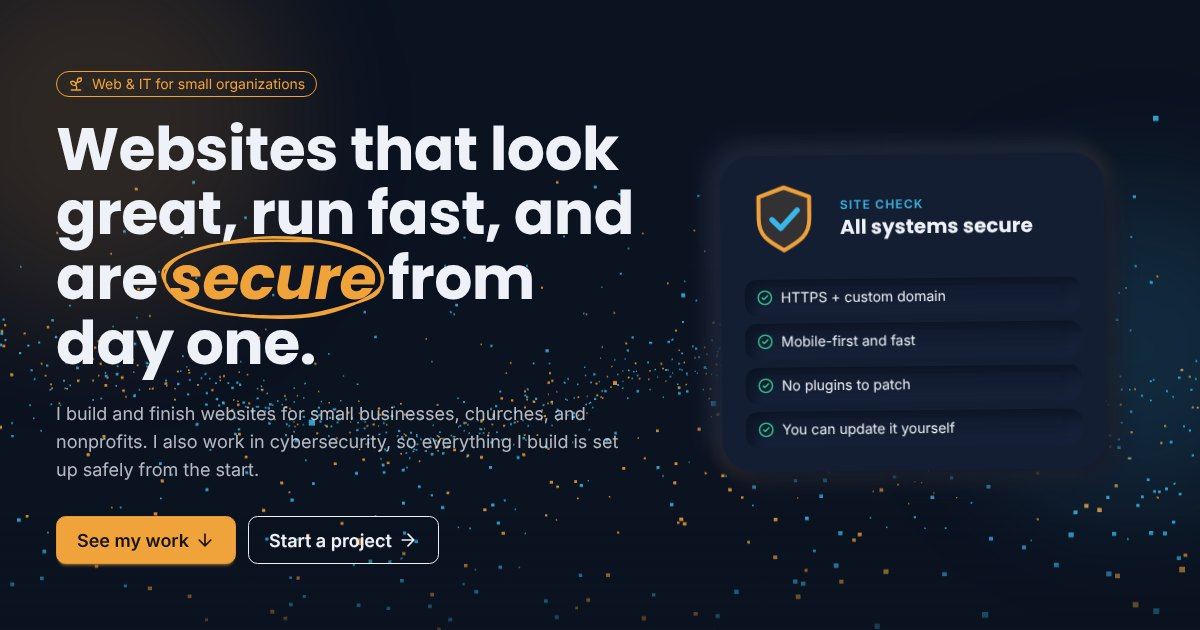
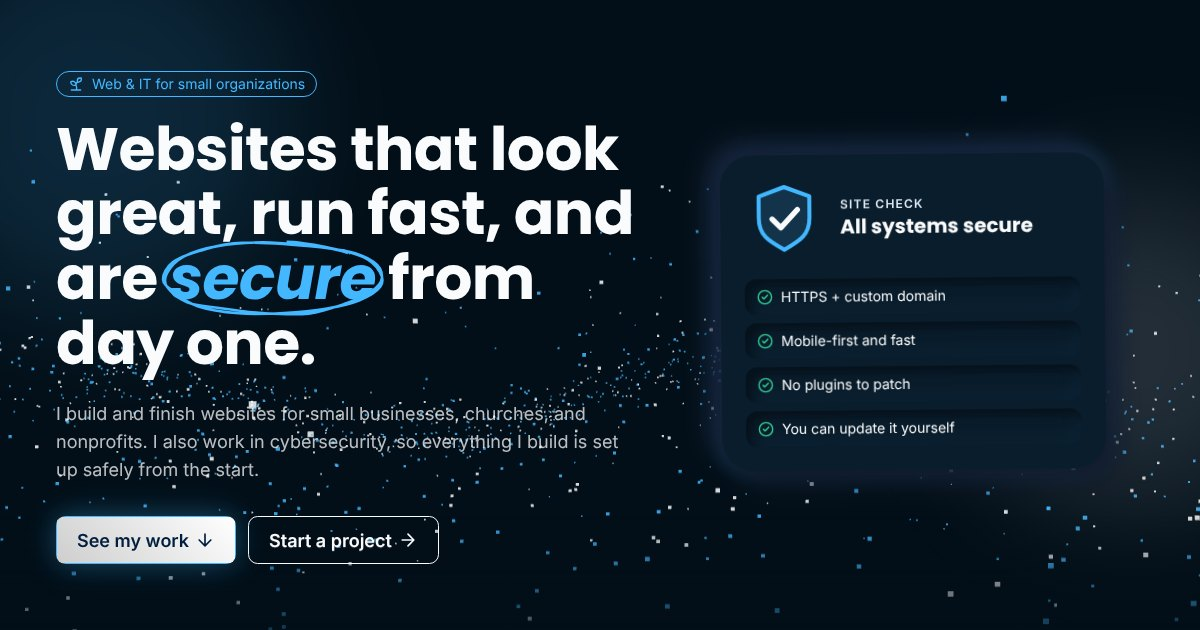
Oak Harbor color palette, add Carvana role, remove M.S. AI
- Midnight navy and sky blue theme with silver glow buttons in dark mode
- Navy primary in light mode
- Recolor 3D hero, charts, diagrams, map, favicon, Lottie and share image
- Add Associate NOC Analyst at Carvana to About and README
- Remove the M.S. in Artificial Intelligence for now

Claude-Session: https://claude.ai/code/session_01J8QdsAUvBAXF7TXNHyVhnL

diff --git a/src/styles/global.css b/src/styles/global.css
@@ -20,19 +20,19 @@
   default: true;
   prefersdark: true;
   color-scheme: dark;
-  --color-base-100: #0b1220;
-  --color-base-200: #111a2e;
-  --color-base-300: #1a2540;
-  --color-base-content: #eef2f8;
-  --color-primary: #f0a23b;
-  --color-primary-content: #1b1205;
-  --color-secondary: #3bb6e8;
-  --color-secondary-content: #04121a;
-  --color-accent: #f0a23b;
-  --color-accent-content: #1b1205;
-  --color-neutral: #141e33;
-  --color-neutral-content: #eef2f8;
-  --color-info: #3bb6e8;
+  --color-base-100: #030f18;
+  --color-base-200: #071a2a;
+  --color-base-300: #0d2639;
+  --color-base-content: #fafbfc;
+  --color-primary: #43b7ff;
+  --color-primary-content: #001f3f;
+  --color-secondary: #dbe7f1;
+  --color-secondary-content: #001f3f;
+  --color-accent: #43b7ff;
+  --color-accent-content: #001f3f;
+  --color-neutral: #0a1d2c;
+  --color-neutral-content: #fafbfc;
+  --color-info: #43b7ff;
   --color-success: #34d399;
   --color-warning: #f59e0b;
   --color-error: #f87171;
@@ -48,19 +48,19 @@
 @plugin "daisyui/theme" {
   name: "goodground-light";
   color-scheme: light;
-  --color-base-100: #f7f8fb;
-  --color-base-200: #eef1f6;
-  --color-base-300: #e2e7ef;
-  --color-base-content: #0b1220;
-  --color-primary: #c97a12;
+  --color-base-100: #f7fafd;
+  --color-base-200: #edf3f9;
+  --color-base-300: #dce7f1;
+  --color-base-content: #0a1a2a;
+  --color-primary: #001f3f;
   --color-primary-content: #ffffff;
-  --color-secondary: #1c8bbe;
+  --color-secondary: #1a8fd8;
   --color-secondary-content: #ffffff;
-  --color-accent: #c97a12;
+  --color-accent: #0f7fc8;
   --color-accent-content: #ffffff;
-  --color-neutral: #e9edf4;
-  --color-neutral-content: #0b1220;
-  --color-info: #1c8bbe;
+  --color-neutral: #e6eef6;
+  --color-neutral-content: #0a1a2a;
+  --color-info: #1a8fd8;
   --color-success: #059669;
   --color-warning: #d97706;
   --color-error: #dc2626;
@@ -127,25 +127,25 @@
 
   /* Soft-UI shadows generated with neumorphism.io (distance 12, blur 24, intensity 0.15) */
   .neu {
-    background: #141e33;
+    background: #0a1d2c;
     box-shadow:
-      12px 12px 24px #11192b,
-      -12px -12px 24px #17223a;
+      12px 12px 24px #081925,
+      -12px -12px 24px #0b2133;
   }
   [data-theme="goodground-light"] .neu {
-    background: #eef1f6;
+    background: #edf3f9;
     box-shadow:
-      12px 12px 24px #caccd1,
+      12px 12px 24px #c9ced4,
       -12px -12px 24px #ffffff;
   }
   .neu-inset {
     box-shadow:
-      inset 6px 6px 12px #0c1424,
-      inset -6px -6px 12px #18233c;
+      inset 6px 6px 12px #06111a,
+      inset -6px -6px 12px #0c2335;
   }
   [data-theme="goodground-light"] .neu-inset {
     box-shadow:
-      inset 6px 6px 12px #caccd1,
+      inset 6px 6px 12px #c9ced4,
       inset -6px -6px 12px #ffffff;
   }
 
@@ -244,7 +244,7 @@
   filter: invert(1) hue-rotate(200deg) brightness(0.85) contrast(0.9) saturate(0.6);
 }
 [data-theme="goodground"] #map .leaflet-container {
-  background: #0b1220;
+  background: #030f18;
 }
 
 /* Shiki (Astro <Code>) dual themes follow the site theme */
@@ -265,4 +265,19 @@
 .ct-chart .ct-series-a .ct-bar {
   stroke: var(--color-secondary);
   stroke-width: 22px;
+}
+
+/* Oak Harbor style buttons in dark mode: silver gradient with a soft blue glow */
+[data-theme="goodground"] .btn-primary {
+  background-image: linear-gradient(45deg, #cecece 0%, #ffffff 100%);
+  border-color: transparent;
+  color: #001f3f;
+  box-shadow:
+    0 0 24px rgba(67, 183, 255, 0.2),
+    0 0 39px rgba(67, 183, 255, 0.2);
+}
+[data-theme="goodground"] .btn-primary:hover {
+  box-shadow:
+    0 0 24px rgba(67, 183, 255, 0.45),
+    0 0 48px rgba(67, 183, 255, 0.35);
 }

diff --git a/src/scripts/echarts.ts b/src/scripts/echarts.ts
@@ -13,7 +13,7 @@ export default function charts(els: HTMLElement[]) {
   for (const el of els) {
     const chart = echarts.init(el, null, { renderer: "svg" });
     const draw = () => {
-      const fg = isLight() ? "#0b1220" : "#eef2f8";
+      const fg = isLight() ? "#0a1a2a" : "#fafbfc";
       const muted = isLight() ? "#5b6478" : "#a3aec4";
       const rows = metrics.images;
       chart.setOption(
@@ -26,7 +26,7 @@ export default function charts(els: HTMLElement[]) {
           xAxis: {
             type: "value",
             axisLabel: { color: muted, formatter: "{value} KB" },
-            splitLine: { lineStyle: { color: isLight() ? "#e2e7ef" : "#1a2540" } },
+            splitLine: { lineStyle: { color: isLight() ? "#dce7f1" : "#0d2639" } },
           },
           yAxis: { type: "category", data: rows.map((r) => r.name), axisLabel: { color: muted }, inverse: true },
           series: [
@@ -40,13 +40,13 @@ export default function charts(els: HTMLElement[]) {
               name: "Desktop version",
               type: "bar",
               data: rows.map((r) => kb(r.desktop)),
-              itemStyle: { color: "#f0a23b", borderRadius: 4 },
+              itemStyle: { color: "#43b7ff", borderRadius: 4 },
             },
             {
               name: "Phone version",
               type: "bar",
               data: rows.map((r) => kb(r.mobile)),
-              itemStyle: { color: "#3bb6e8", borderRadius: 4 },
+              itemStyle: { color: isLight() ? "#001f3f" : "#fafbfc", borderRadius: 4 },
             },
           ],
         },

diff --git a/src/scripts/diagrams.ts b/src/scripts/diagrams.ts
@@ -13,18 +13,18 @@ export default async function diagrams(nodes: HTMLElement[]) {
       themeVariables: light
         ? {
             primaryColor: "#ffffff",
-            primaryBorderColor: "#c97a12",
-            primaryTextColor: "#0b1220",
-            lineColor: "#1c8bbe",
-            tertiaryColor: "#eef1f6",
+            primaryBorderColor: "#001f3f",
+            primaryTextColor: "#0a1a2a",
+            lineColor: "#1a8fd8",
+            tertiaryColor: "#edf3f9",
           }
         : {
-            primaryColor: "#141e33",
-            primaryBorderColor: "#f0a23b",
-            primaryTextColor: "#eef2f8",
-            lineColor: "#3bb6e8",
-            tertiaryColor: "#111a2e",
-            edgeLabelBackground: "#0b1220",
+            primaryColor: "#0a1d2c",
+            primaryBorderColor: "#43b7ff",
+            primaryTextColor: "#fafbfc",
+            lineColor: "#9fd8ff",
+            tertiaryColor: "#071a2a",
+            edgeLabelBackground: "#030f18",
           },
       flowchart: { curve: "basis", padding: 14 },
     });

diff --git a/src/data/site.ts b/src/data/site.ts
@@ -23,7 +23,7 @@ export const stats = [
   },
   { id: "sites", value: 2, suffix: "", label: "Client websites live", engine: "odometer" },
   { id: "cert", value: 1, suffix: "", label: "CompTIA Security+ certification", engine: "countup" },
-  { id: "degrees", value: 2, suffix: "", label: "Degrees in progress (Cyber + AI)", engine: "countup" },
+  { id: "degrees", value: 1, suffix: "", label: "Degree in progress (B.S. Cybersecurity)", engine: "countup" },
 ];
 
 /** Short explanations shown in tooltips on tech badges. */
@@ -179,9 +179,9 @@ export const mapPoints = [
 ];
 
 export const credentials = [
+  { title: "Associate NOC Analyst", detail: "Carvana, Tempe, AZ, since Sep 2025" },
   { title: "CompTIA Security+", detail: "Certified" },
   { title: "B.S. Cybersecurity", detail: "In progress" },
-  { title: "M.S. Artificial Intelligence", detail: "In progress" },
   { title: "Technical Lead", detail: "Fountain of Life Christian Fellowship, since 2019" },
 ];
 

diff --git a/src/scripts/main.ts b/src/scripts/main.ts
@@ -115,7 +115,7 @@ document.querySelectorAll<HTMLElement>("[data-burst]").forEach((el) =>
       count: 12,
       children: {
         shape: ["circle", "polygon"],
-        fill: ["#f0a23b", "#3bb6e8", "#eef2f8"],
+        fill: ["#43b7ff", "#9fd8ff", "#fafbfc"],
         radius: { 7: 0 },
         duration: 800,
       },
@@ -137,7 +137,7 @@ document.querySelectorAll<HTMLElement>("[data-start-project]").forEach((el) =>
       cancelButtonText: "Not yet",
       background: getComputedStyle(document.body).backgroundColor,
       color: getComputedStyle(document.body).color,
-      confirmButtonColor: "#f0a23b",
+      confirmButtonColor: "#43b7ff",
     });
     if (res.isConfirmed) window.open(el.dataset.startProject, "_blank", "noopener");
   }),

diff --git a/src/scripts/hero3d.ts b/src/scripts/hero3d.ts
@@ -14,8 +14,8 @@ export default function hero3d(canvas: HTMLCanvasElement) {
   const count = window.innerWidth < 640 ? 900 : 1800;
   const pos = new Float32Array(count * 3);
   const col = new Float32Array(count * 3);
-  const amber = new THREE.Color("#f0a23b");
-  const cyan = new THREE.Color("#3bb6e8");
+  const amber = new THREE.Color("#fafbfc");
+  const cyan = new THREE.Color("#43b7ff");
   for (let i = 0; i < count; i++) {
     const x = (Math.random() - 0.5) * 34;
     const z = (Math.random() - 0.5) * 20;

diff --git a/src/scripts/map.ts b/src/scripts/map.ts
@@ -21,5 +21,5 @@ export default function map(el: HTMLElement) {
       .bindPopup(`<strong>${p.name}</strong><br>${p.detail}`);
   });
   m.fitBounds(L.featureGroup(pts).getBounds().pad(0.6));
-  L.circle([33.42, -111.94], { radius: 38000, color: "#f0a23b", weight: 1, fillOpacity: 0.06 }).addTo(m);
+  L.circle([33.42, -111.94], { radius: 38000, color: "#43b7ff", weight: 1, fillOpacity: 0.06 }).addTo(m);
 }

diff --git a/src/scripts/qr.ts b/src/scripts/qr.ts
@@ -11,7 +11,7 @@ export default function qr(canvas: HTMLCanvasElement) {
       size: 360,
       level: "M",
       background: "#ffffff",
-      foreground: isLight() ? "#0b1220" : "#111a2e",
+      foreground: isLight() ? "#001f3f" : "#030f18",
       padding: 16,
     });
   draw();

diff --git a/README.md b/README.md
@@ -86,6 +86,7 @@ legacy/         the previous single-page portfolio
 
 ## Background
 
+- Associate NOC Analyst at Carvana (Tempe, AZ) since September 2025
 - CompTIA Security+
-- B.S. in Cybersecurity and M.S. in Artificial Intelligence (in progress)
+- B.S. in Cybersecurity (in progress)
 - Technical Lead at Fountain of Life Christian Fellowship since 2019 (IT infrastructure, AV and livestream production, security hardening)
